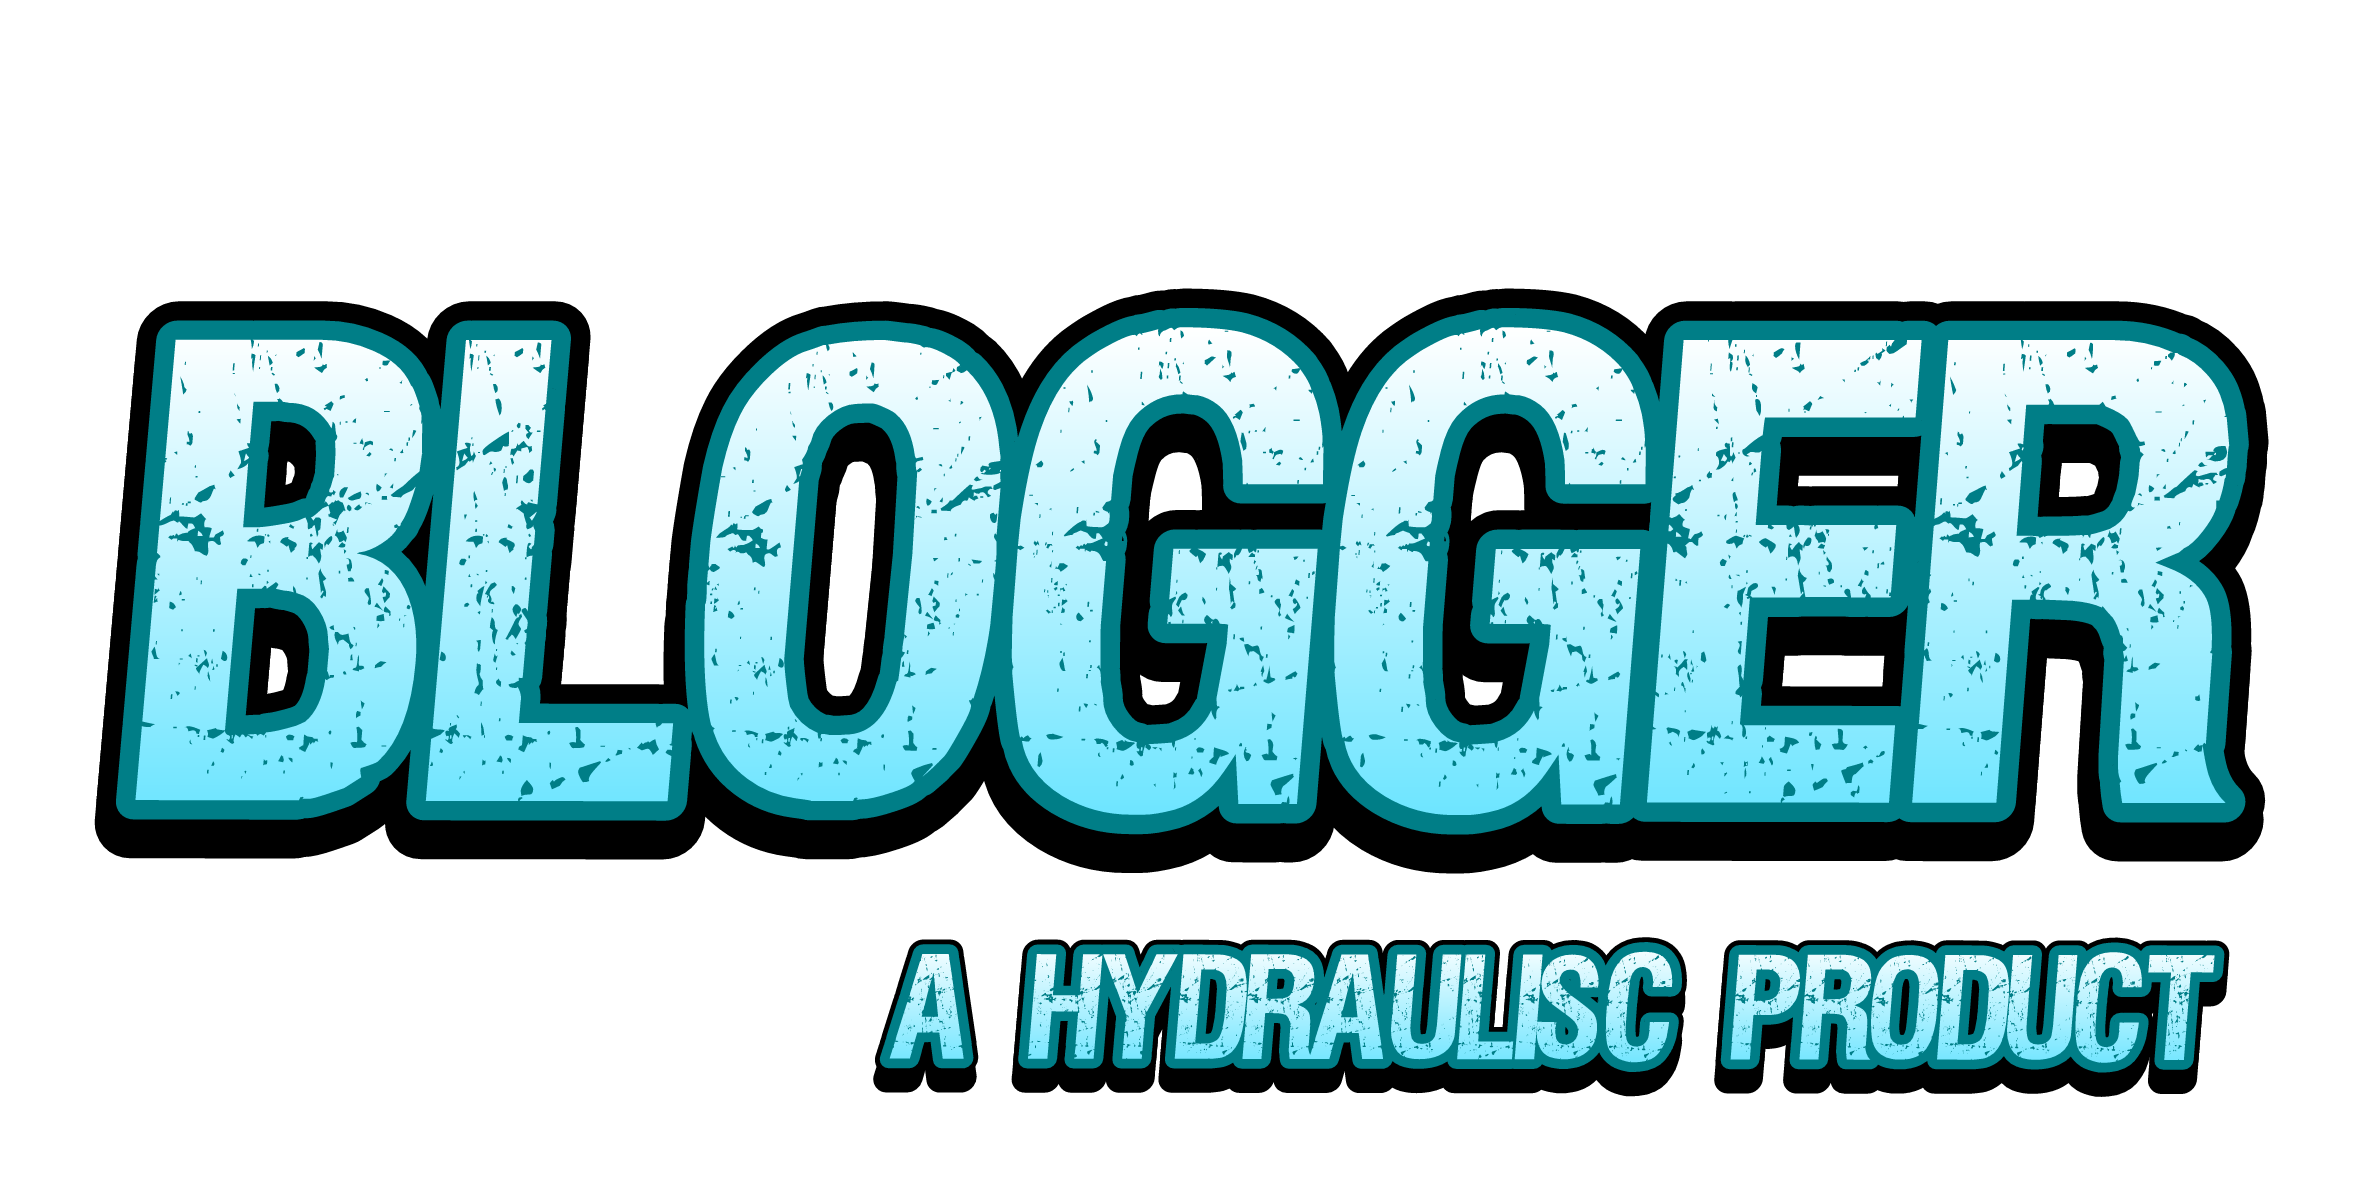
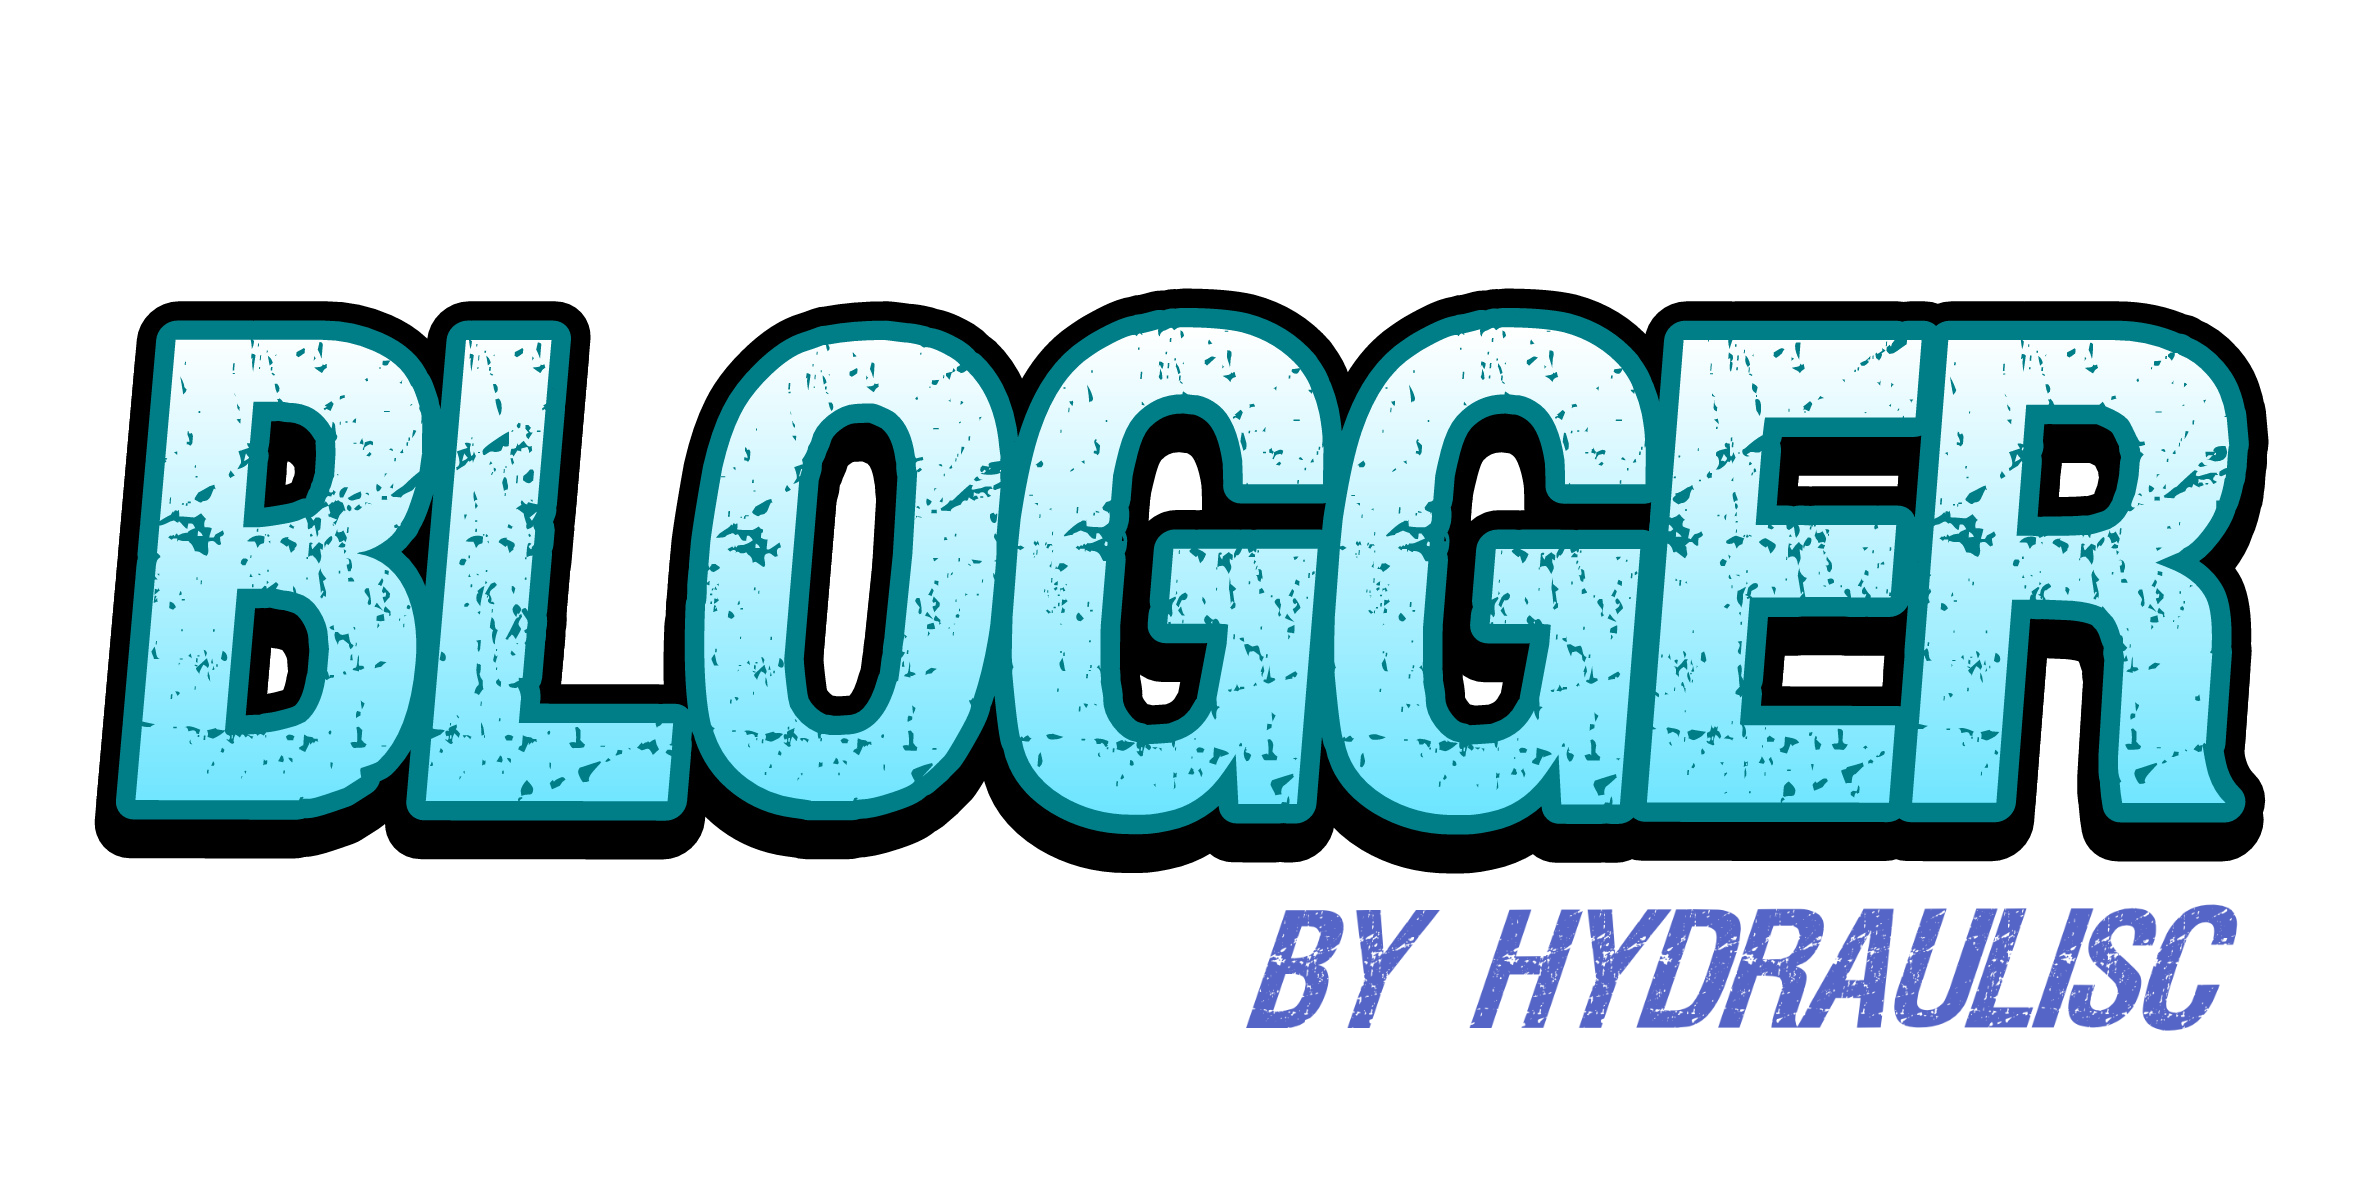
CHORE: A LOT OF CHORES: Cleanup?
Cleaning this code, just over a year later, I am beyond confused as to what I made at 3AM one morning and how it ever even possibly worked.
I had originally planned to add features, but just cleaning up this code was enough of a headache to make me decide against it.

Also changed the blogger by hydraulisc img.

Also, I'm 99% sure the axios package isn't used. But, I might just be going insane after hours of trying to fiddle my way around this code.

Changed region(s): [[0.3712, 0.7627, 0.9589, 0.9458]]

diff --git a/server.js b/server.js
@@ -45,24 +45,13 @@ function cleanseHTML(text) {
 
 // login page
 app.get('/auth', function (req, res) {
-    const checkUser = firebase.auth().currentUser;
-    var userID = "";
-    if(checkUser) {
-      userID = checkUser.uid;
-    } else {
-      userID = undefined;
-    }
-    if(userID) {
-      res.redirect(`/`)
-    } else {
-      res.render('pages/auth', {
-        title: null,
-        source: "",
-        username: userID,
-        uid: req.uid,
-      });
-    }
-  });
+  const checkUser = firebase.auth().currentUser;
+  if(checkUser) {
+    res.redirect(`/`)
+  } else {
+    res.render('pages/auth');
+  }
+});
 
 
   /*  WARNING!
@@ -80,8 +69,7 @@ app.post('/auth/login', async (req, res) => {
   
     try {
       await firebase.auth().signInWithEmailAndPassword(email, password);
-      const userId = firebase.auth().currentUser.uid;
-      res.status(200).send('OK');
+      res.redirect('/');
     } catch (error) {
       const errorMessage = error.message;
       console.error(errorMessage);
@@ -90,18 +78,14 @@ app.post('/auth/login', async (req, res) => {
   });
 
 app.get('/', async (req, res) => {
-    var checkUser = "";
-    if(firebase.auth().currentUser != null) checkUser = firebase.auth().currentUser;
-    var userID = "";
-    if(checkUser) {
-      userID = checkUser.uid;
-    } else {
-      userID = undefined;
-    }
-    res.render('pages/blogger', {
-      username: firebase.auth().currentUser,
+    if(firebase.auth().currentUser != null) {
+      res.render('pages/blogger', {
+      username: firebase.auth().currentUser.email,
       uid: firebase.auth().currentUser
     });
+    } else {
+      res.redirect('/auth')
+    }
 })
 
 /* UPLOAD BLOG ENTRIES
@@ -136,7 +120,7 @@ app.post('/post/create', async (req, res) => {
     const updatedPost = { path: postId, update: timestamp };
 
     await docRef.update(updatedPost);
-    res.status(200).json({ uploadStatus: 'success' });
+    res.status(200).json('success').redirect('/');
   } catch (error) {
     console.error(error);
     res.status(500).json({ error: 'Error patching blog post: ' + error.message });
